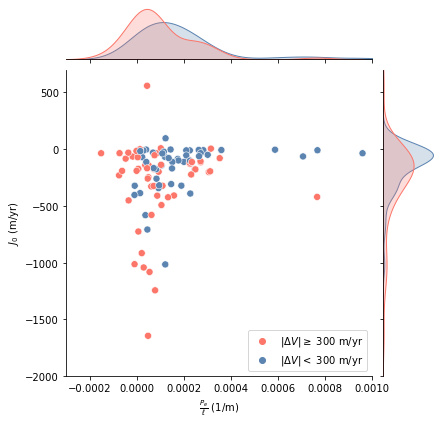
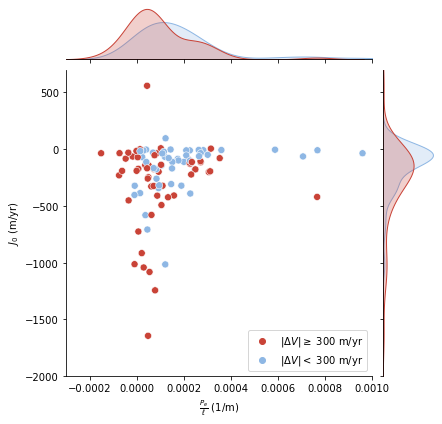
deploy: defaf399ca2161c367dc0d2fcf706f2c15eb6803

diff --git a/searchindex.js b/searchindex.js
@@ -1,1 +1,1 @@
-Search.setIndex({docnames:["index","workflows/Fig3-4","workflows/Fig5","workflows/Fig6","workflows/Fig7"],envversion:{"sphinx.domains.c":2,"sphinx.domains.changeset":1,"sphinx.domains.citation":1,"sphinx.domains.cpp":4,"sphinx.domains.index":1,"sphinx.domains.javascript":2,"sphinx.domains.math":2,"sphinx.domains.python":3,"sphinx.domains.rst":2,"sphinx.domains.std":2,"sphinx.ext.intersphinx":1,sphinx:56},filenames:["index.md","workflows/Fig3-4.ipynb","workflows/Fig5.ipynb","workflows/Fig6.ipynb","workflows/Fig7.ipynb"],objects:{},objnames:{},objtypes:{},terms:{"0":[0,1,2,3,4],"00":2,"00001":4,"00002":4,"000021":3,"000034":3,"000044":3,"000047":3,"000054":3,"000078":3,"0000e":2,"0001":2,"000231":3,"000234":3,"0003":[2,3],"000306":3,"000315":3,"0004":2,"0005":2,"0007":2,"0009":2,"0010":[2,3],"0014":2,"0015":2,"0016":2,"0019":2,"0020":2,"0021":2,"0022":2,"0024":2,"0025":2,"0027":2,"0029":2,"0035":2,"0036":2,"0037":2,"0039":2,"0043":2,"0046":2,"0047":2,"0048":2,"0049":2,"0050":2,"0052":2,"0054":2,"0058":2,"0059":2,"006":4,"0085":2,"0099":2,"01":2,"0103":2,"0105":2,"0106":2,"0111":2,"0113":2,"0114":2,"0115":2,"0116":2,"012":4,"0124":2,"0129":2,"0135":2,"0152":2,"01636":2,"0167":2,"0168":2,"0174":2,"0177":2,"0181":2,"0183":2,"01_itmix_input_data":4,"02":2,"0207":2,"0208":2,"0212":2,"0213":2,"0217":2,"0245":2,"0252":2,"0276":2,"0277":2,"02975082":2,"02_itmix_result":4,"02_surface_austfonna_2007_utm33":4,"03_itmix_measured_thick":4,"0464":2,"05":2,"06":[2,4],"06397":4,"063974380493164":4,"06629180908203125":4,"0692507e":2,"06_speed_austfonna_1995":4,"074":2,"1":[1,2,3],"10":[0,1,4],"100":[2,3,4],"1007":4,"101":3,"102":3,"1023":3,"1029":1,"103":3,"104":[2,3],"105":4,"107":4,"1081":3,"11":4,"112":3,"113":[2,4],"114":4,"12":[1,2,4],"12020111083984":4,"123464":3,"124":4,"1243":3,"125":4,"126":4,"127":4,"128":4,"128198":3,"13":4,"130":[2,4],"132":[2,4],"13330078125":4,"138":2,"138448":3,"14":[2,4],"142":4,"144":4,"146":4,"1466282e":2,"147":4,"15":[2,4],"150":4,"1500":[2,4],"15043176":2,"1508":4,"151":4,"154":4,"155":4,"156":4,"16":4,"163":4,"16622416":2,"167":3,"168837":3,"17":[2,4],"171":[2,4],"172802925109863":4,"176":[2,4],"177":[2,4],"18":[2,4],"186179":3,"189":[2,4],"19":2,"1996":4,"1996_utm33":4,"1998":[1,2],"1998_v":[1,2],"2":[1,2,3],"20":[1,2,4],"200":[1,3,4],"2000":[3,4],"2017":[0,4],"2018":[1,2,4],"2019":[1,2,4],"202":[2,4],"2020gl090112":1,"2021":[0,1,2,4],"2052":2,"20766689":2,"208582":3,"209":4,"2095":2,"2096":2,"2097":2,"21":[1,4],"21249389648438":4,"2132173e":2,"218":4,"2195":2,"22":[2,4],"220":[2,4],"221":4,"222":[2,3,4],"229":[2,4],"24":[1,4],"240":[2,4],"250":4,"2500":[2,4],"251":4,"255":[2,4],"26131558":2,"27":4,"2774":3,"2793803e":2,"284207":3,"28590393066406":4,"3":[0,2,3],"30":[1,4],"300":[2,3,4],"30116781":2,"3029":3,"31":4,"32":[2,4],"32119750976562":4,"322":4,"32604264":2,"33779054":2,"3410e":2,"3415e":2,"34209113":2,"3420e":2,"349":3,"3500":[2,4],"3594":1,"36425781":2,"3671684265136719":4,"369998931884766":4,"378881":3,"38":[2,4],"381":4,"388452":3,"3887":1,"389999866485596":4,"395359039306641":4,"4":[0,2,3,4],"4000":[2,4],"40261348":2,"41":4,"41999816894531":4,"4281":1,"4284759":[1,2],"435":3,"45":4,"450":3,"45079803466797":4,"4556":2,"4558266":0,"456":3,"46":4,"46299192":2,"467":3,"47":4,"473":4,"479272":3,"48":1,"48159790039062":4,"4844":1,"48999786376953":4,"49":4,"492":4,"496936798095703":4,"5":[0,1,3,4],"50":[1,3,4],"500":[2,4],"501":4,"5067":[1,4],"51":[2,4],"511":3,"5194":[1,4],"5205":1,"521":[1,4],"5253413":2,"5281":0,"53":4,"535111":3,"54":3,"54119873046875":4,"547":[1,4],"548":4,"55":2,"56":4,"5667":1,"572187":3,"573":3,"5905":4,"59292828e":2,"5b84b1":3,"6":[0,1,2,4],"60":0,"600708007":4,"6007080078125":4,"602":2,"603":2,"60340671":2,"613":3,"61459350585938":4,"623":4,"630000114440918":4,"6362":2,"64765127e":2,"655180":3,"66":4,"661744":4,"661772":4,"664882":4,"664950":4,"66967773":2,"669704":4,"669770":4,"673035":4,"673095":4,"676753":4,"676815":4,"680680":4,"680771":4,"6ii6vw8llwj7":[1,4],"7":[0,1,2],"700":3,"70232476e":2,"709698":4,"709733":4,"70999908447266":4,"712479":4,"712538":4,"716518":3,"7265":0,"73809052":2,"747370":3,"75":4,"76000":4,"77":4,"77000045776367":4,"77694301e":2,"78":4,"78903456":2,"8":4,"805053":3,"80505341":2,"80580139160156":4,"81535963e":2,"82":3,"83274997e":2,"83999633789062":4,"84":4,"857":4,"857761":3,"859915":3,"86310854e":2,"8661490e":2,"88":4,"880001068115234":4,"8808446":4,"8808481":4,"8808972":4,"8810146":4,"8810585":4,"8812864":4,"8827112":4,"8829608":4,"88461048e":2,"886":4,"89":4,"893":4,"8997259140014648":4,"9":[2,4],"91079403e":2,"915":3,"91999816894531":4,"92":4,"927415":3,"936824":3,"9380649e":2,"9413554e":2,"9449325e":2,"949":4,"951":4,"95337":2,"960":4,"963":4,"9696412e":2,"970":4,"9738998413086":4,"9896011352539":4,"98999786376953":4,"99":3,"9998":4,"class":1,"default":1,"do":1,"f\u00fcrst":4,"final":[3,4],"float":4,"import":[1,2,3,4],"new":3,"no\u00ebl":1,"static":0,"switch":1,"true":[1,4],A:[0,1,4],BY:[1,4],If:[2,4],In:1,That:2,The:[0,1,4],These:2,To:[1,2],_:[1,2],_netcdf4:1,a006:2,a011:2,a030:2,a031:2,a033:2,a034:2,a045:2,a061:2,a112:2,a132:2,a147:2,a148:2,a173:2,a184:2,a199:2,a251:2,a260:2,ab:[2,4],about:3,abov:[2,4],access:[1,4],accur:4,add:[1,3,4],add_subplot:[1,4],again:2,al:[1,2,4],alia:4,alison:2,all:[0,1,2,4],along:[1,2],alreadi:[2,4],also:2,alwai:2,analysi:0,andreassen:4,ani:2,antarct:[1,4],append:[2,3,4],aquamarin:[1,4],ar:[0,4],archiv:[1,4],arrai:[2,4],asc:4,assist:0,atmospher:0,austfonna:4,austfonna_glaci:4,author:0,autom:[1,4],auxiliari:[1,2,3,4],avail:[0,1,4],averag:[1,2,4],avg:[1,2,4],ax1:4,ax3:1,ax4:[2,4],ax:[1,4],ax_joint:3,axbig:[1,4],b006:2,b011:2,b030:2,b031:2,b033:2,b034:2,b045:2,b061:2,b132:2,b147:2,b148:2,b173:2,b184:2,b199:2,b216:2,b251:2,b:[1,2,4],b_collect:4,bartholomau:1,base:[0,2,3],bash:[1,2,4],basin_no:4,basin_no_list:4,batch:1,becaus:2,bed:[1,4],bed_fil:4,bed_gen:4,begin:2,below:[2,4],berkelei:0,besid:0,between:4,big:[1,4],bin:3,binder:0,blue:[1,4],brinkerhoff:4,broek:[1,4],brown:[1,4],c031:2,c033:2,c034:2,c061:2,c173:2,c184:2,c216:2,c:[1,4],ca:0,cal_avg_for_each_basin:[1,2,4],cal_pej0_for_each_flowlin:[1,2],cal_pej0_for_each_flowline_raw:4,calcul:[1,2,4],california:0,call:3,can:[0,1,2,4],catania:1,cc:[1,4],cell:[1,2,4],center:[1,4],chang:[1,2,3,4],chaulet:4,clark:4,classifi:3,closest:[1,2,4],cmap:3,code:[0,2,4],color:[1,2,4],colorado:0,column:[2,3],comment:[2,4],compil:0,consist:4,consortium:0,contain:2,content:4,convert:2,coord:4,cornel:[0,1,2,4],correspond:0,count:3,creat:[1,4],cryospher:[1,4],csv:[2,3],cyan:[1,4],d173:2,d184:2,d216:2,d:[1,2,4],d_collect:4,d_stop:4,dark:[1,4],data:0,data_group:[1,2,4],datafram:2,dataset:[0,1,2,4],delta:[3,4],den:[1,4],depart:0,design:2,detail:[1,2,3,4],determin:[1,4],df:[2,3],dh:1,diff:[2,3],differ:[1,4],diffus:1,digit:0,dimens:1,directli:2,discharg:[1,4],disposit:4,distanc:[1,2,4],distribut:3,doi:[0,1,4],done:1,dot:[1,4],ds:[1,2],dtype:2,ea:[1,2,4],each:[0,1,2,4],earth:0,easili:1,east:[1,4],edu:[0,1,2,4],elev:[1,4],ell:[1,2,3],els:[1,2,3,4],email:0,estim:4,et:[1,2,4],ethz:4,eventu:4,execut:0,experi:4,extra:2,extract:2,f:[1,2,3,4],fahnestock:[1,4],fahnstock:[1,4],fals:2,farinotti:4,farinotti_austfonna_bedrock:4,fc766a:3,featur:2,felikson2021:[1,2],felikson:[1,2],fi:[1,2,4],fig3:2,fig5:[2,3,4],fig6:3,fig7:4,fig:[1,2,4],figsiz:[1,2,4],file:[1,2,4],filelist:1,fine:4,first:[1,4],firstli:[2,4],fisher:0,float32:[1,2],flow:[1,4],flowlin:[0,1,2,4],flowline03:[1,2],flowline04:[1,2],flowline05:[1,2],flowline06:[1,2],flowline07:[1,2],flowline08:[1,2],flowline_fil:4,flowline_group:[1,2],flowline_no:4,flowline_statpts4_clean_epsg32633:4,folder:4,follow:1,format:[2,3,4],found:0,frac:[1,2,3,4],frei:4,from:[0,1,2,4],from_list:[2,4],full:0,g:[1,4],gantayat:4,gardner:[1,2,4],gener:[0,2],geo:[1,2,4],geometri:[1,4],geopanda:4,geophys:1,geq:3,get:0,get_flowline_group:[1,2],get_gridspec:[1,4],gillet:4,gimp:1,girard:4,github:0,give:3,glacier0207:1,glacier0277:1,glacier:[1,2,3],glacier_fil:[1,2],glacier_id:4,glacier_label:2,global:[0,1,4],gov:[1,4],gpd:4,grai:4,gre_g0240_1998_v:[1,2],gre_g0240_diff:[1,2],green:[1,4],greenland:1,grei:1,gridspec_kw:[2,4],group:1,gs:[1,4],gstudent:[1,2,4],h5:[2,4],h:[1,4],harden:0,have:[2,3,4],hdf5:[2,4],height_ratio:[2,4],here:[1,3,4],higher:3,hist:3,histogram:3,how:[1,3,4],http:[0,1,2,4],hue:3,huss:4,i:[1,2],ic:[0,1,4],icon:0,id:2,idea:3,idx:[3,4],includ:[0,4],increas:[1,4],index:2,indic:[1,4],inform:2,ingest:0,inland:1,intercomparison:4,interp:4,inventori:0,ipynb:[2,3,4],isnan:[1,2,4],iter:[1,2],iterrow:[3,4],ithaca:0,itmix:4,itmix_dataset:4,its:[1,4],its_liv:[0,1,2,4],j0:[1,2],j0_ignore_dslop:[1,2,4],j:[1,4],j_0:[1,2,3],joint_kw:3,jointplot:3,jpl:[1,4],k:4,keep:4,kei:[1,2,4],km:[1,2,4],knickpoint:1,l:[0,4],label:[0,4],land:0,last:[1,4],latenc:[1,4],leclercq:4,left:[1,4],legend:3,len:[2,3,4],letter:1,licens:[1,4],light:[1,4],ligtenberg:[1,4],limit:1,linearsegmentedcolormap:[2,4],linestr:4,linewidth:[1,4],link:[0,1,4],linsbauer:4,linspac:4,list:[2,4],live:[1,4],load:3,load_pej0_result:[2,4],loc:3,locat:[1,4],low:[1,4],lower:3,ls:1,m:[0,1,2,3,4],machguth:4,made:[0,1],mailto:0,make:[2,4],mani:[1,3,4],manual:1,map:[0,2,4],mark:4,markers:[1,2,4],martin:4,matplotlib:[1,2,4],maussion:4,measur:[0,1,4],media:0,mega_result:[2,4],mega_results_austfonna:4,mega_results_greenland:2,mitig:1,mode:[1,4],model:4,moholdt:[1,4],moon:0,more:[1,2,3,4],morlighem:[1,4],mosaic:4,mosbeux:4,my_savgol_filt:4,mycmap:[2,4],n5:0,n:[1,4],name:[1,2],nan:[1,2,4],nanmax:[2,4],nanmin:[2,4],nasa:[1,4],nation:[1,4],nc:[1,2,4],necessari:[0,4],netcdf4:[1,2],netcdf:[1,2],netcdf_dir:[1,2],never:1,newclass:3,next:[1,2,4],nilsson:[1,4],node:[2,4],nomin:1,non:[1,4],none:[1,2,4],notebook:[1,2,3,4],now:[1,2,4],np:[1,2,4],number:1,numpi:[1,2,4],ny:0,object:1,octob:[1,4],one:[1,2,4],open:[0,1,2,4],org:[0,1,2,4],origin:[1,4],other:[0,1,2,3,4],out:[2,4],outlet:1,outlin:0,over:[1,2,4],overview:[2,4],p:[1,2,4],p_0:[2,4],p_e:[1,2,3],packag:0,page:0,palett:3,panda:[2,3],pandit:4,paper:1,paperdraft2021:[1,2,4],paramet:2,path:[1,2],pathlib:[1,2],pd:[2,3],pdf:[1,2,3,4],pe:[1,2],pe_ignore_dslop:[1,2,4],pej0_gris_classif:[2,3],pej0_plot_length:[1,4],pejzero:[1,2,4],plot:[1,2,3],plt:[1,2,4],pm:3,png:[1,4],polyord:4,portmann:4,present:0,previou:[1,3,4],primari:[1,2],primary_flowlin:[1,2],print:[1,2,3],process:[1,2],produc:[1,2,3,4],profil:[2,4],project:[1,4],provid:[0,1,2,4],purpl:[1,4],py:1,pyplot:[1,2,4],python:1,qgi:0,qgreenland:0,quick:3,r:[1,2,3,4],rabatel:4,randolph:0,raster:2,rasterio:[1,2,4],read:[2,4],read_csv:3,read_fil:4,record:[1,2,4],red:[1,4],redistribut:[1,4],refer:[0,1,4],regener:[2,4],region:[1,4],relev:0,remov:[1,4],repeat:[2,4],replac:[1,2],report:0,repositori:0,reproduc:0,rerun:[2,4],research:1,result:[0,1,3,4],retriev:0,rf:[1,2,4],rgba2:[2,4],rgba:[2,4],rgi6:0,rgi:0,right:[1,3,4],rio:4,rm:[1,2,4],rocket:0,row:[3,4],run:[1,2],s:[1,2,3,4],s_collect:4,sa:4,safe:[2,4],said:2,same:[2,4],sampl:4,save:[2,4],save_pej0_result:[2,4],savefig:[1,2,3,4],savgol_winlength:4,scambo:[1,4],scienc:0,seaborn:3,section:2,see:[0,1,2,3,4],select:2,session:0,set:[1,3,4],set_titl:[1,4],set_xlabel:[1,2,4],set_xlim:[2,3,4],set_ylabel:[1,2,4],set_ylim:3,shapefil:4,sharex:[1,4],sheet:[1,4],should:[1,4],show:[1,4],shp:4,similar:4,simpl:3,singlebasin:1,size:[1,4],sn:3,snow:[1,4],softwar:0,some:2,space:[0,1,4],speed2018_fil:4,speed2018_gen:4,speed:[1,2,3,4],speed_data:[1,2],speed_fil:[1,2,4],speed_gen:4,sra_g0240_2018_v_epsg32633:4,src_bed:4,src_speed2018:4,src_speed:4,src_surfac:4,stafford:0,statist:0,steep:1,stem:[1,2],stick:2,store:3,str:4,stretch:[2,4],structur:[2,4],studi:0,subplot:[1,2,4],supplement:[1,4],supplementari:0,support:0,surfac:[1,4],surface_fil:4,surface_gen:4,t:[0,1,4],take:2,tc:[1,4],technic:0,term1:2,term2:2,term3:2,term4:2,term5:2,term6:2,terminu:[1,2,4],text:[1,4],than:1,them:[0,2],thi:[1,2,3,4],thick:4,thin:1,threshold:3,tif:[1,2,4],time:2,to_csv:2,to_df:2,total:2,tune:4,u2018:4,u:[1,2,4],u_collect:4,udiff:[2,4],udiff_collect:4,udiff_sm:[1,2,4],unchang:[1,4],uncom:[1,2,4],under:[1,4],underbad:[2,4],univers:0,unzip:[1,2,4],upload:2,us:[0,1,2,4],usa:0,user:0,v1:0,v:3,valid:2,valu:[1,4],van:[1,4],variabl:[1,2,4],vdiff_data:[1,2],vdiff_fil:[1,2],veloc:[1,4],verbos:[1,2,4],verifi:[2,4],version:0,vertex:4,vertic:[1,4],via:0,visual:0,w:4,we:[1,2,3,4],west:[1,4],wget:[1,2,4],which:4,whyjai:0,whyjz:0,window_length:4,wish:[2,4],work:0,workflow:[0,2,3],www:[1,2,4],wz278:[1,2,4],x:[1,2,3,4],xkcd:[1,4],y:[1,3],year:[1,4],you:[1,2,4],yr:[1,2,3,4],z_max:[2,4],z_min:[2,4],z_valu:[2,4],z_value_sc:[2,4],zenodo:[0,1,2],zheng:0,zip:[1,2,4]},titles:["Supplemental material for \u201cGlacier geometry and flow speed determine how Arctic marine-terminating glaciers respond to lubricated beds\u201d","Figures 3-4","Figure 5","Figure 6","Figure 7"],titleterms:{"1":[0,4],"2":[0,4],"3":[1,4],"4":1,"5":2,"6":3,"7":4,analysi:[1,2,4],arctic:0,basin:4,bed:0,book:0,content:0,data:[1,2,3,4],deriv:4,determin:0,ell:4,explor:2,figur:[0,1,2,3,4],flow:0,geometri:0,get:[1,2,3,4],glacier:[0,4],how:0,ingest:4,introduct:0,j_0:4,jupyt:0,lubric:0,marin:0,materi:0,p_e:4,plot:4,respond:0,result:2,singl:4,speed:0,supplement:0,termin:0,thi:0,visual:[2,3,4]}})
+Search.setIndex({docnames:["index","workflows/Fig3-4","workflows/Fig5","workflows/Fig6","workflows/Fig7"],envversion:{"sphinx.domains.c":2,"sphinx.domains.changeset":1,"sphinx.domains.citation":1,"sphinx.domains.cpp":4,"sphinx.domains.index":1,"sphinx.domains.javascript":2,"sphinx.domains.math":2,"sphinx.domains.python":3,"sphinx.domains.rst":2,"sphinx.domains.std":2,"sphinx.ext.intersphinx":1,sphinx:56},filenames:["index.md","workflows/Fig3-4.ipynb","workflows/Fig5.ipynb","workflows/Fig6.ipynb","workflows/Fig7.ipynb"],objects:{},objnames:{},objtypes:{},terms:{"0":[0,1,2,3,4],"00":2,"00001":4,"00002":4,"000021":3,"000034":3,"000044":3,"000047":3,"000054":3,"000078":3,"0000e":2,"0001":2,"000231":3,"000234":3,"0003":[2,3],"000306":3,"000315":3,"0004":2,"0005":2,"0007":2,"0009":2,"0010":[2,3],"0014":2,"0015":2,"0016":2,"0019":2,"0020":2,"0021":2,"0022":2,"0024":2,"0025":2,"0027":2,"0029":2,"0035":2,"0036":2,"0037":2,"0039":2,"0043":2,"0046":2,"0047":2,"0048":2,"0049":2,"0050":2,"0052":2,"0054":2,"0058":2,"0059":2,"006":4,"0085":2,"0099":2,"01":2,"0103":2,"0105":2,"0106":2,"0111":2,"0113":2,"0114":2,"0115":2,"0116":2,"012":4,"0124":2,"0129":2,"0135":2,"0152":2,"01636":2,"0167":2,"0168":2,"0174":2,"0177":2,"0181":2,"0183":2,"01_itmix_input_data":4,"02":2,"0207":2,"0208":2,"0212":2,"0213":2,"0217":2,"0245":2,"0252":2,"0276":2,"0277":2,"02975082":2,"02_itmix_result":4,"02_surface_austfonna_2007_utm33":4,"03_itmix_measured_thick":4,"0464":2,"05":2,"06":[2,4],"06397":4,"063974380493164":4,"06629180908203125":4,"0692507e":2,"06_speed_austfonna_1995":4,"074":2,"1":[1,2,3],"10":[0,1,4],"100":[2,3,4],"1007":4,"101":3,"102":3,"1023":3,"1029":1,"103":3,"104":[2,3],"105":4,"107":4,"1081":3,"11":4,"112":3,"113":[2,4],"114":4,"12":[1,2,4],"12020111083984":4,"123464":3,"124":4,"1243":3,"125":4,"126":4,"127":4,"128":4,"128198":3,"13":4,"130":[2,4],"132":[2,4],"13330078125":4,"138":2,"138448":3,"14":[2,4],"142":4,"144":4,"146":4,"1466282e":2,"147":4,"15":[2,4],"150":4,"1500":[2,4],"15043176":2,"1508":4,"151":4,"154":4,"155":4,"156":4,"16":4,"163":4,"16622416":2,"167":3,"168837":3,"17":[2,4],"171":[2,4],"172802925109863":4,"176":[2,4],"177":[2,4],"18":[2,4],"186179":3,"189":[2,4],"19":2,"1996":4,"1996_utm33":4,"1998":[1,2],"1998_v":[1,2],"2":[1,2,3],"20":[1,2,4],"200":[1,3,4],"2000":[3,4],"2017":[0,4],"2018":[1,2,4],"2019":[1,2,4],"202":[2,4],"2020gl090112":1,"2021":[0,1,2,4],"2052":2,"20766689":2,"208582":3,"209":4,"2095":2,"2096":2,"2097":2,"21":[1,4],"21249389648438":4,"2132173e":2,"218":4,"2195":2,"22":[2,4],"220":[2,4],"221":4,"222":[2,3,4],"229":[2,4],"24":[1,4],"240":[2,4],"250":4,"2500":[2,4],"251":4,"255":[2,4],"26131558":2,"27":4,"2774":3,"2793803e":2,"284207":3,"28590393066406":4,"3":[0,2,3],"30":[1,4],"300":[2,3,4],"30116781":2,"3029":3,"31":4,"32":[2,4],"32119750976562":4,"322":4,"32604264":2,"33779054":2,"3410e":2,"3415e":2,"34209113":2,"3420e":2,"349":3,"3500":[2,4],"3594":1,"36425781":2,"3671684265136719":4,"369998931884766":4,"378881":3,"38":[2,4],"381":4,"388452":3,"3887":1,"389999866485596":4,"395359039306641":4,"4":[0,2,3,4],"4000":[2,4],"40261348":2,"41":4,"41999816894531":4,"4281":1,"4284759":[1,2],"435":3,"45":4,"450":3,"45079803466797":4,"4556":2,"4558266":0,"456":3,"46":4,"46299192":2,"467":3,"47":4,"473":4,"479272":3,"48":1,"48159790039062":4,"4844":1,"48999786376953":4,"49":4,"492":4,"496936798095703":4,"5":[0,1,3,4],"50":[1,3,4],"500":[2,4],"501":4,"5067":[1,4],"51":[2,4],"511":3,"5194":[1,4],"5205":1,"521":[1,4],"5253413":2,"5281":0,"53":4,"535111":3,"54":3,"54119873046875":4,"547":[1,4],"548":4,"55":2,"56":4,"5667":1,"572187":3,"573":3,"5905":4,"59292828e":2,"6":[0,1,2,4],"60":0,"600708007":4,"6007080078125":4,"602":2,"603":2,"60340671":2,"613":3,"61459350585938":4,"623":4,"630000114440918":4,"6362":2,"64765127e":2,"655180":3,"66":4,"661744":4,"661772":4,"664882":4,"664950":4,"66967773":2,"669704":4,"669770":4,"673035":4,"673095":4,"676753":4,"676815":4,"680680":4,"680771":4,"6ii6vw8llwj7":[1,4],"7":[0,1,2],"700":3,"70232476e":2,"709698":4,"709733":4,"70999908447266":4,"712479":4,"712538":4,"716518":3,"7265":0,"73809052":2,"747370":3,"75":4,"76000":4,"77":4,"77000045776367":4,"77694301e":2,"78":4,"78903456":2,"8":4,"805053":3,"80505341":2,"80580139160156":4,"81535963e":2,"82":3,"83274997e":2,"83999633789062":4,"84":4,"857":4,"857761":3,"859915":3,"86310854e":2,"8661490e":2,"88":4,"880001068115234":4,"8808446":4,"8808481":4,"8808972":4,"8810146":4,"8810585":4,"8812864":4,"8827112":4,"8829608":4,"88461048e":2,"886":4,"89":4,"893":4,"8997259140014648":4,"8eb7e4":3,"9":[2,4],"91079403e":2,"915":3,"91999816894531":4,"92":4,"927415":3,"936824":3,"9380649e":2,"9413554e":2,"9449325e":2,"949":4,"951":4,"95337":2,"960":4,"963":4,"9696412e":2,"970":4,"9738998413086":4,"9896011352539":4,"98999786376953":4,"99":3,"9998":4,"class":1,"default":1,"do":1,"f\u00fcrst":4,"final":[3,4],"float":4,"import":[1,2,3,4],"new":3,"no\u00ebl":1,"static":0,"switch":1,"true":[1,4],A:[0,1,4],BY:[1,4],If:[2,4],In:1,That:2,The:[0,1,4],These:2,To:[1,2],_:[1,2],_netcdf4:1,a006:2,a011:2,a030:2,a031:2,a033:2,a034:2,a045:2,a061:2,a112:2,a132:2,a147:2,a148:2,a173:2,a184:2,a199:2,a251:2,a260:2,ab:[2,4],about:3,abov:[2,4],access:[1,4],accur:4,add:[1,3,4],add_subplot:[1,4],again:2,al:[1,2,4],alia:4,alison:2,all:[0,1,2,4],along:[1,2],alreadi:[2,4],also:2,alwai:2,analysi:0,andreassen:4,ani:2,antarct:[1,4],append:[2,3,4],aquamarin:[1,4],ar:[0,4],archiv:[1,4],arrai:[2,4],asc:4,assist:0,atmospher:0,austfonna:4,austfonna_glaci:4,author:0,autom:[1,4],auxiliari:[1,2,3,4],avail:[0,1,4],averag:[1,2,4],avg:[1,2,4],ax1:4,ax3:1,ax4:[2,4],ax:[1,4],ax_joint:3,axbig:[1,4],b006:2,b011:2,b030:2,b031:2,b033:2,b034:2,b045:2,b061:2,b132:2,b147:2,b148:2,b173:2,b184:2,b199:2,b216:2,b251:2,b:[1,2,4],b_collect:4,bartholomau:1,base:[0,2,3],bash:[1,2,4],basin_no:4,basin_no_list:4,batch:1,becaus:2,bed:[1,4],bed_fil:4,bed_gen:4,begin:2,below:[2,4],berkelei:0,besid:0,between:4,big:[1,4],bin:3,binder:0,blue:[1,4],brinkerhoff:4,broek:[1,4],brown:[1,4],c031:2,c033:2,c034:2,c061:2,c173:2,c184:2,c216:2,c94337:3,c:[1,4],ca:0,cal_avg_for_each_basin:[1,2,4],cal_pej0_for_each_flowlin:[1,2],cal_pej0_for_each_flowline_raw:4,calcul:[1,2,4],california:0,call:3,can:[0,1,2,4],catania:1,cc:[1,4],cell:[1,2,4],center:[1,4],chang:[1,2,3,4],chaulet:4,clark:4,classifi:3,closest:[1,2,4],cmap:3,code:[0,2,4],color:[1,2,4],colorado:0,column:[2,3],comment:[2,4],compil:0,consist:4,consortium:0,contain:2,content:4,convert:2,coord:4,cornel:[0,1,2,4],correspond:0,count:3,creat:[1,4],cryospher:[1,4],csv:[2,3],cyan:[1,4],d173:2,d184:2,d216:2,d:[1,2,4],d_collect:4,d_stop:4,dark:[1,4],data:0,data_group:[1,2,4],datafram:2,dataset:[0,1,2,4],delta:[3,4],den:[1,4],depart:0,design:2,detail:[1,2,3,4],determin:[1,4],df:[2,3],dh:1,diff:[2,3],differ:[1,4],diffus:1,digit:0,dimens:1,directli:2,discharg:[1,4],disposit:4,distanc:[1,2,4],distribut:3,doi:[0,1,4],done:1,dot:[1,4],ds:[1,2],dtype:2,ea:[1,2,4],each:[0,1,2,4],earth:0,easili:1,east:[1,4],edu:[0,1,2,4],elev:[1,4],ell:[1,2,3],els:[1,2,3,4],email:0,estim:4,et:[1,2,4],ethz:4,eventu:4,execut:0,experi:4,extra:2,extract:2,f:[1,2,3,4],fahnestock:[1,4],fahnstock:[1,4],fals:2,farinotti:4,farinotti_austfonna_bedrock:4,featur:2,felikson2021:[1,2],felikson:[1,2],fi:[1,2,4],fig3:2,fig5:[2,3,4],fig6:3,fig7:4,fig:[1,2,4],figsiz:[1,2,4],file:[1,2,4],filelist:1,fine:4,first:[1,4],firstli:[2,4],fisher:0,float32:[1,2],flow:[1,4],flowlin:[0,1,2,4],flowline03:[1,2],flowline04:[1,2],flowline05:[1,2],flowline06:[1,2],flowline07:[1,2],flowline08:[1,2],flowline_fil:4,flowline_group:[1,2],flowline_no:4,flowline_statpts4_clean_epsg32633:4,folder:4,follow:1,format:[2,3,4],found:0,frac:[1,2,3,4],frei:4,from:[0,1,2,4],from_list:[2,4],full:0,g:[1,4],gantayat:4,gardner:[1,2,4],gener:[0,2],geo:[1,2,4],geometri:[1,4],geopanda:4,geophys:1,geq:3,get:0,get_flowline_group:[1,2],get_gridspec:[1,4],gillet:4,gimp:1,girard:4,github:0,give:3,glacier0207:1,glacier0277:1,glacier:[1,2,3],glacier_fil:[1,2],glacier_id:4,glacier_label:2,global:[0,1,4],gov:[1,4],gpd:4,grai:4,gre_g0240_1998_v:[1,2],gre_g0240_diff:[1,2],green:[1,4],greenland:1,grei:1,gridspec_kw:[2,4],group:1,gs:[1,4],gstudent:[1,2,4],h5:[2,4],h:[1,4],harden:0,have:[2,3,4],hdf5:[2,4],height_ratio:[2,4],here:[1,3,4],higher:3,hist:3,histogram:3,how:[1,3,4],http:[0,1,2,4],hue:3,huss:4,i:[1,2],ic:[0,1,4],icon:0,id:2,idea:3,idx:[3,4],includ:[0,4],increas:[1,4],index:2,indic:[1,4],inform:2,ingest:0,inland:1,intercomparison:4,interp:4,inventori:0,ipynb:[2,3,4],isnan:[1,2,4],iter:[1,2],iterrow:[3,4],ithaca:0,itmix:4,itmix_dataset:4,its:[1,4],its_liv:[0,1,2,4],j0:[1,2],j0_ignore_dslop:[1,2,4],j:[1,4],j_0:[1,2,3],joint_kw:3,jointplot:3,jpl:[1,4],k:4,keep:4,kei:[1,2,4],km:[1,2,4],knickpoint:1,l:[0,4],label:[0,4],land:0,last:[1,4],latenc:[1,4],leclercq:4,left:[1,4],legend:3,len:[2,3,4],letter:1,licens:[1,4],light:[1,4],ligtenberg:[1,4],limit:1,linearsegmentedcolormap:[2,4],linestr:4,linewidth:[1,4],link:[0,1,4],linsbauer:4,linspac:4,list:[2,4],live:[1,4],load:3,load_pej0_result:[2,4],loc:3,locat:[1,4],low:[1,4],lower:3,ls:1,m:[0,1,2,3,4],machguth:4,made:[0,1],mailto:0,make:[2,4],mani:[1,3,4],manual:1,map:[0,2,4],mark:4,markers:[1,2,4],martin:4,matplotlib:[1,2,4],maussion:4,measur:[0,1,4],media:0,mega_result:[2,4],mega_results_austfonna:4,mega_results_greenland:2,mitig:1,mode:[1,4],model:4,moholdt:[1,4],moon:0,more:[1,2,3,4],morlighem:[1,4],mosaic:4,mosbeux:4,my_savgol_filt:4,mycmap:[2,4],n5:0,n:[1,4],name:[1,2],nan:[1,2,4],nanmax:[2,4],nanmin:[2,4],nasa:[1,4],nation:[1,4],nc:[1,2,4],necessari:[0,4],netcdf4:[1,2],netcdf:[1,2],netcdf_dir:[1,2],never:1,newclass:3,next:[1,2,4],nilsson:[1,4],node:[2,4],nomin:1,non:[1,4],none:[1,2,4],notebook:[1,2,3,4],now:[1,2,4],np:[1,2,4],number:1,numpi:[1,2,4],ny:0,object:1,octob:[1,4],one:[1,2,4],open:[0,1,2,4],org:[0,1,2,4],origin:[1,4],other:[0,1,2,3,4],out:[2,4],outlet:1,outlin:0,over:[1,2,4],overview:[2,4],p:[1,2,4],p_0:[2,4],p_e:[1,2,3],packag:0,page:0,palett:3,panda:[2,3],pandit:4,paper:1,paperdraft2021:[1,2,4],paramet:2,path:[1,2],pathlib:[1,2],pd:[2,3],pdf:[1,2,3,4],pe:[1,2],pe_ignore_dslop:[1,2,4],pej0_gris_classif:[2,3],pej0_plot_length:[1,4],pejzero:[1,2,4],plot:[1,2,3],plt:[1,2,4],pm:3,png:[1,4],polyord:4,portmann:4,present:0,previou:[1,3,4],primari:[1,2],primary_flowlin:[1,2],print:[1,2,3],process:[1,2],produc:[1,2,3,4],profil:[2,4],project:[1,4],provid:[0,1,2,4],purpl:[1,4],py:1,pyplot:[1,2,4],python:1,qgi:0,qgreenland:0,quick:3,r:[1,2,3,4],rabatel:4,randolph:0,raster:2,rasterio:[1,2,4],read:[2,4],read_csv:3,read_fil:4,record:[1,2,4],red:[1,4],redistribut:[1,4],refer:[0,1,4],regener:[2,4],region:[1,4],relev:0,remov:[1,4],repeat:[2,4],replac:[1,2],report:0,repositori:0,reproduc:0,rerun:[2,4],research:1,result:[0,1,3,4],retriev:0,rf:[1,2,4],rgba2:[2,4],rgba:[2,4],rgi6:0,rgi:0,right:[1,3,4],rio:4,rm:[1,2,4],rocket:0,row:[3,4],run:[1,2],s:[1,2,3,4],s_collect:4,sa:4,safe:[2,4],said:2,same:[2,4],sampl:4,save:[2,4],save_pej0_result:[2,4],savefig:[1,2,3,4],savgol_winlength:4,scambo:[1,4],scienc:0,seaborn:3,section:2,see:[0,1,2,3,4],select:2,session:0,set:[1,3,4],set_titl:[1,4],set_xlabel:[1,2,4],set_xlim:[2,3,4],set_ylabel:[1,2,4],set_ylim:3,shapefil:4,sharex:[1,4],sheet:[1,4],should:[1,4],show:[1,4],shp:4,similar:4,simpl:3,singlebasin:1,size:[1,4],sn:3,snow:[1,4],softwar:0,some:2,space:[0,1,4],speed2018_fil:4,speed2018_gen:4,speed:[1,2,3,4],speed_data:[1,2],speed_fil:[1,2,4],speed_gen:4,sra_g0240_2018_v_epsg32633:4,src_bed:4,src_speed2018:4,src_speed:4,src_surfac:4,stafford:0,statist:0,steep:1,stem:[1,2],stick:2,store:3,str:4,stretch:[2,4],structur:[2,4],studi:0,subplot:[1,2,4],supplement:[1,4],supplementari:0,support:0,surfac:[1,4],surface_fil:4,surface_gen:4,t:[0,1,4],take:2,tc:[1,4],technic:0,term1:2,term2:2,term3:2,term4:2,term5:2,term6:2,terminu:[1,2,4],text:[1,4],than:1,them:[0,2],thi:[1,2,3,4],thick:4,thin:1,threshold:3,tif:[1,2,4],time:2,to_csv:2,to_df:2,total:2,tune:4,u2018:4,u:[1,2,4],u_collect:4,udiff:[2,4],udiff_collect:4,udiff_sm:[1,2,4],unchang:[1,4],uncom:[1,2,4],under:[1,4],underbad:[2,4],univers:0,unzip:[1,2,4],upload:2,us:[0,1,2,4],usa:0,user:0,v1:0,v:3,valid:2,valu:[1,4],van:[1,4],variabl:[1,2,4],vdiff_data:[1,2],vdiff_fil:[1,2],veloc:[1,4],verbos:[1,2,4],verifi:[2,4],version:0,vertex:4,vertic:[1,4],via:0,visual:0,w:4,we:[1,2,3,4],west:[1,4],wget:[1,2,4],which:4,whyjai:0,whyjz:0,window_length:4,wish:[2,4],work:0,workflow:[0,2,3],www:[1,2,4],wz278:[1,2,4],x:[1,2,3,4],xkcd:[1,4],y:[1,3],year:[1,4],you:[1,2,4],yr:[1,2,3,4],z_max:[2,4],z_min:[2,4],z_valu:[2,4],z_value_sc:[2,4],zenodo:[0,1,2],zheng:0,zip:[1,2,4]},titles:["Supplemental material for \u201cGlacier geometry and flow speed determine how Arctic marine-terminating glaciers respond to lubricated beds\u201d","Figures 3-4","Figure 5","Figure 6","Figure 7"],titleterms:{"1":[0,4],"2":[0,4],"3":[1,4],"4":1,"5":2,"6":3,"7":4,analysi:[1,2,4],arctic:0,basin:4,bed:0,book:0,content:0,data:[1,2,3,4],deriv:4,determin:0,ell:4,explor:2,figur:[0,1,2,3,4],flow:0,geometri:0,get:[1,2,3,4],glacier:[0,4],how:0,ingest:4,introduct:0,j_0:4,jupyt:0,lubric:0,marin:0,materi:0,p_e:4,plot:4,respond:0,result:2,singl:4,speed:0,supplement:0,termin:0,thi:0,visual:[2,3,4]}})

diff --git a/workflows/Fig6.html b/workflows/Fig6.html
@@ -403,7 +403,7 @@ How many glaciers have a lower speed change?:  50
 <p>Finally, we plot <strong>Figure 6</strong>:</p>
 <div class="cell docutils container">
 <div class="cell_input docutils container">
-<div class="highlight-ipython3 notranslate"><div class="highlight"><pre><span></span><span class="n">cmap</span> <span class="o">=</span> <span class="p">{</span><span class="sa">r</span><span class="s1">&#39;$|\Delta V| \geq$ 300 m/yr&#39;</span><span class="p">:</span> <span class="s1">&#39;#FC766A&#39;</span><span class="p">,</span> <span class="sa">r</span><span class="s1">&#39;$|\Delta V| &lt;$ 300 m/yr&#39;</span><span class="p">:</span> <span class="s1">&#39;#5B84B1&#39;</span><span class="p">}</span>
+<div class="highlight-ipython3 notranslate"><div class="highlight"><pre><span></span><span class="n">cmap</span> <span class="o">=</span> <span class="p">{</span><span class="sa">r</span><span class="s1">&#39;$|\Delta V| \geq$ 300 m/yr&#39;</span><span class="p">:</span> <span class="s1">&#39;#C94337&#39;</span><span class="p">,</span> <span class="sa">r</span><span class="s1">&#39;$|\Delta V| &lt;$ 300 m/yr&#39;</span><span class="p">:</span> <span class="s1">&#39;#8EB7E4&#39;</span><span class="p">}</span>
 <span class="n">f</span> <span class="o">=</span> <span class="n">sns</span><span class="o">.</span><span class="n">jointplot</span><span class="p">(</span><span class="n">data</span><span class="o">=</span><span class="n">df</span><span class="p">,</span> <span class="n">x</span><span class="o">=</span><span class="sa">r</span><span class="s1">&#39;$\frac</span><span class="si">{P_e}</span><span class="s1">{\ell}$ (1/m)&#39;</span><span class="p">,</span> <span class="n">y</span><span class="o">=</span><span class="sa">r</span><span class="s1">&#39;$J_0$ (m/yr)&#39;</span><span class="p">,</span> <span class="n">hue</span><span class="o">=</span><span class="s2">&quot;Legend&quot;</span><span class="p">,</span> <span class="n">palette</span><span class="o">=</span><span class="n">cmap</span><span class="p">,</span> <span class="n">joint_kws</span><span class="o">=</span><span class="p">{</span><span class="s2">&quot;s&quot;</span><span class="p">:</span> <span class="mi">50</span><span class="p">})</span>
 <span class="n">f</span><span class="o">.</span><span class="n">ax_joint</span><span class="o">.</span><span class="n">set_xlim</span><span class="p">([</span><span class="o">-</span><span class="mf">0.0003</span><span class="p">,</span> <span class="mf">0.0010</span><span class="p">])</span>
 <span class="n">f</span><span class="o">.</span><span class="n">ax_joint</span><span class="o">.</span><span class="n">set_ylim</span><span class="p">([</span><span class="o">-</span><span class="mi">2000</span><span class="p">,</span> <span class="mi">700</span><span class="p">])</span>
